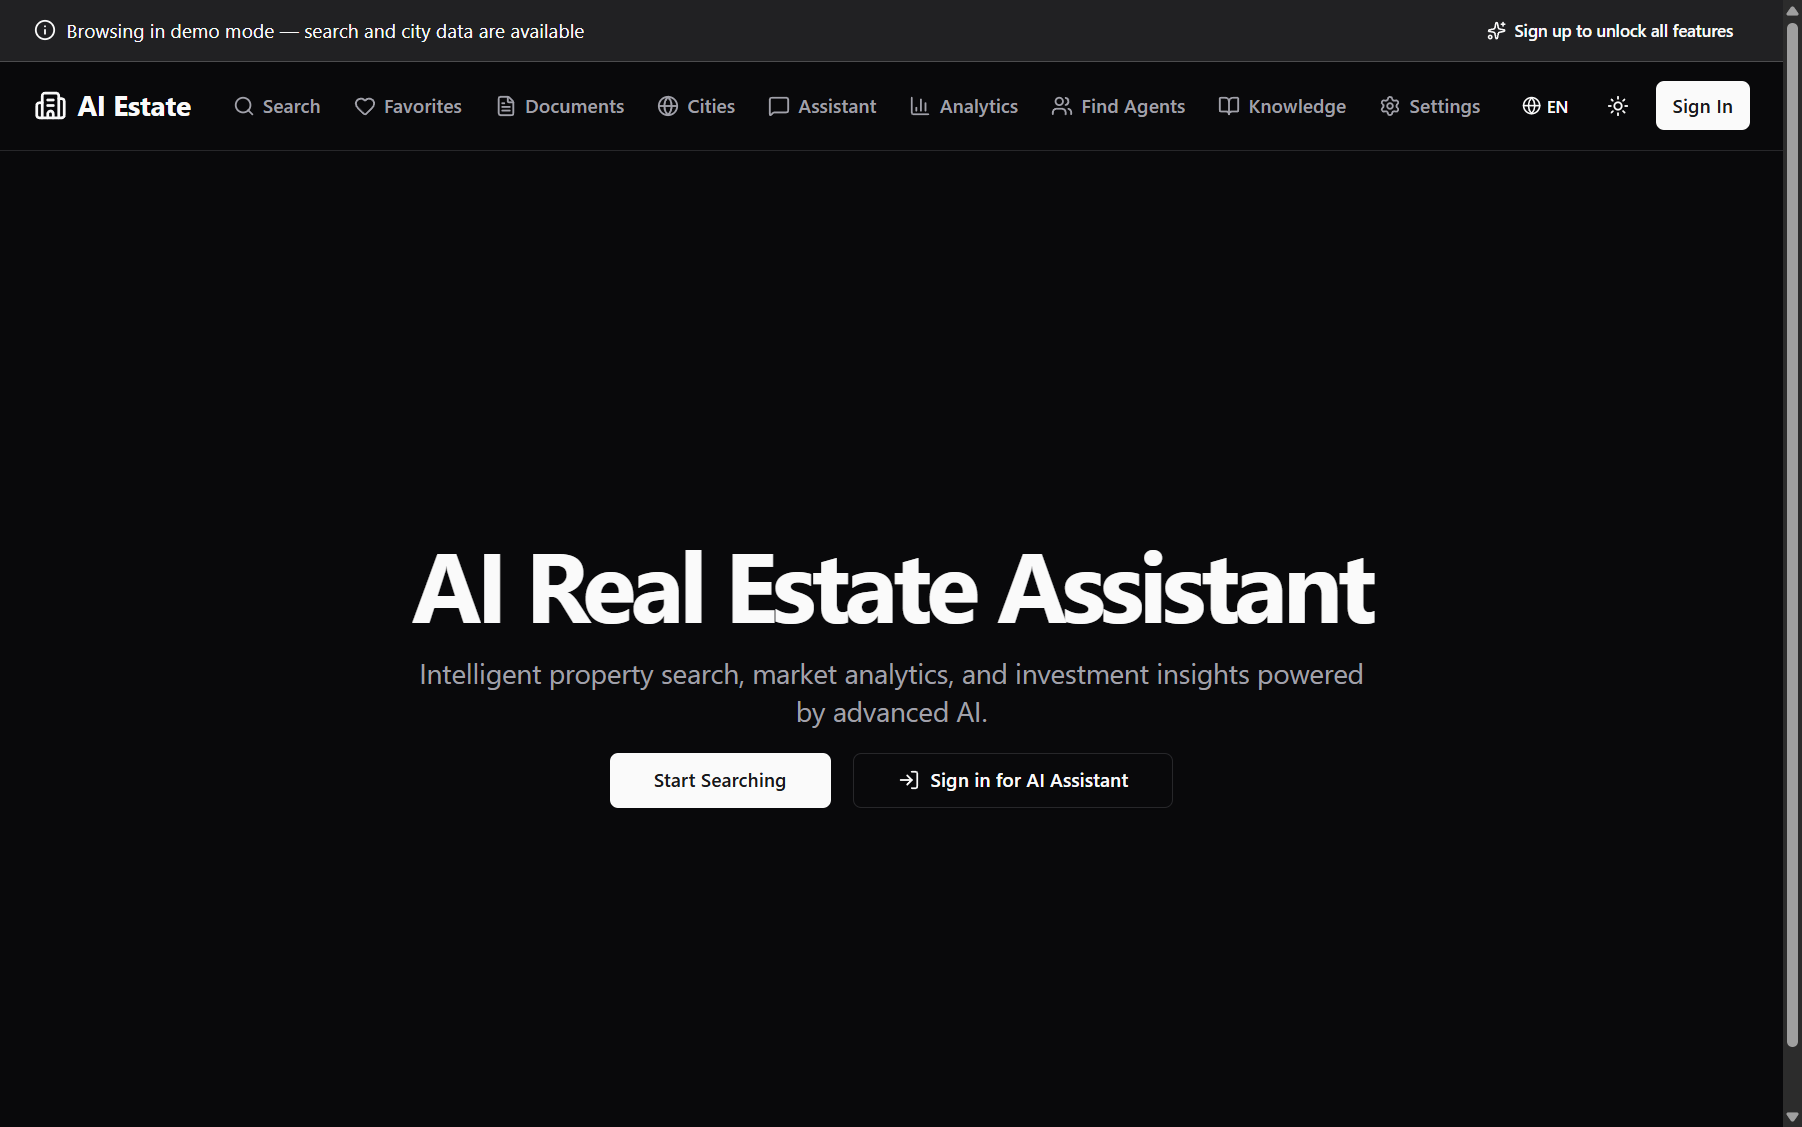
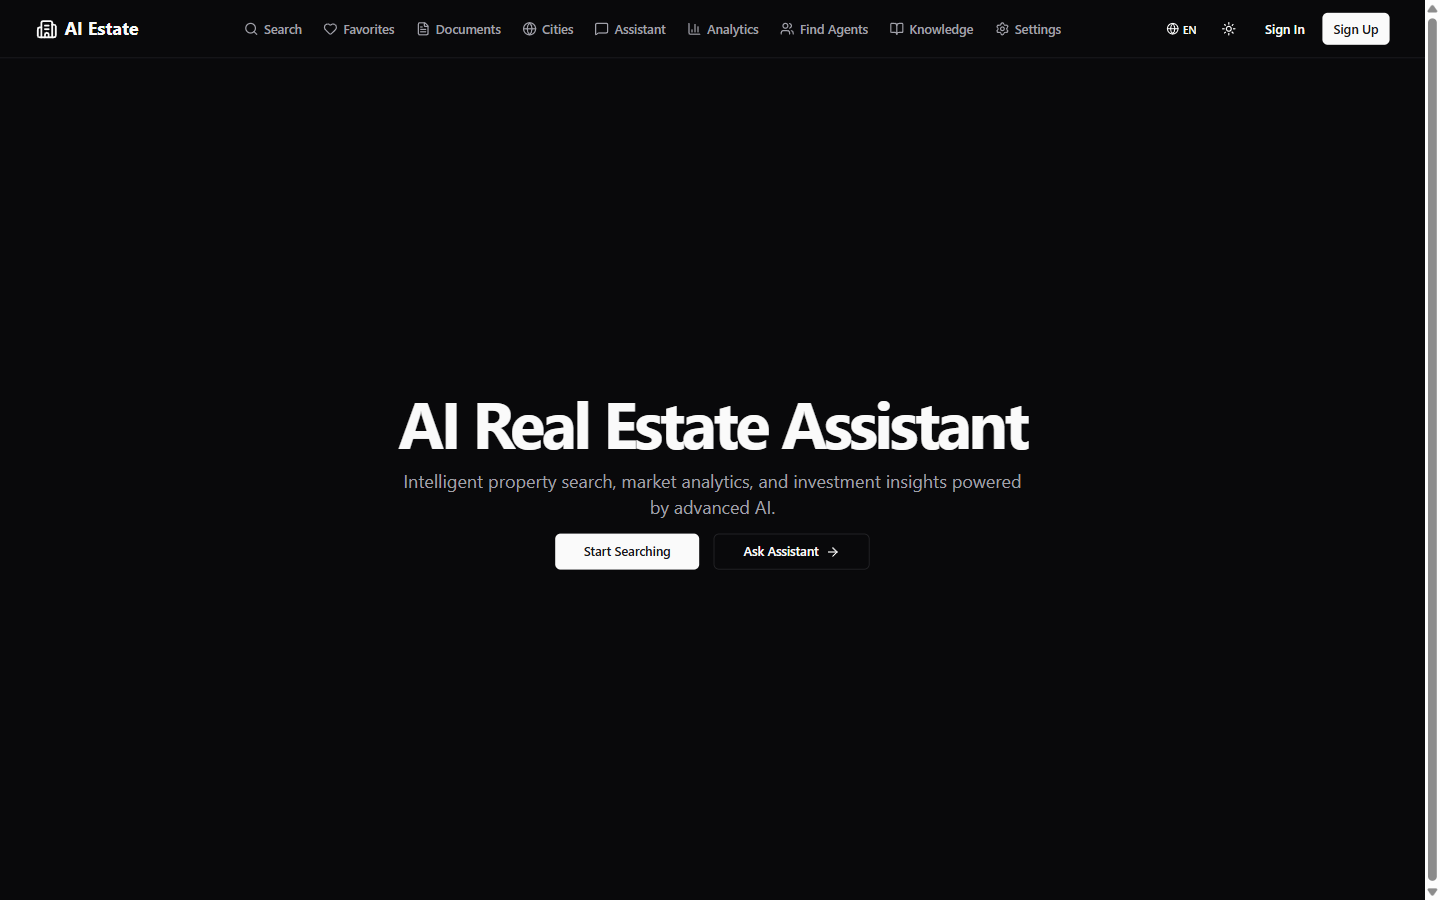
docs: replace screenshot table with animated GIF slideshow
- Replace 6-image table with animated GIF showing all 12 screens
- GIF uses slideleft transitions with text subtitles per frame
- Add missing screenshots: Favorites, Documents, Cities, Agents, Settings
- All screenshots in dark theme with error elements hidden
- Replace Activity Graph with Star History chart
- 640x400, ~2MB, 27.2s duration at 10fps
- Track GIF via Git LFS (exceeds 500KB pre-commit limit)

diff --git a/README.md b/README.md
@@ -58,28 +58,13 @@ Experience the full power of AI-driven real estate search without any setup:
 
 ## 📸 Screenshots
 
-<table>
-  <tr>
-    <td align="center"><b>Home</b></td>
-    <td align="center"><b>Property Search</b></td>
-    <td align="center"><b>Analytics & Tools</b></td>
-  </tr>
-  <tr>
-    <td><img src="assets/screenshots/home-dark.png" alt="Home page with dark theme" width="400"/></td>
-    <td><img src="assets/screenshots/search-dark.png" alt="Property search with filters" width="400"/></td>
-    <td><img src="assets/screenshots/analytics-dark.png" alt="Analytics and financial tools" width="400"/></td>
-  </tr>
-  <tr>
-    <td align="center"><b>Knowledge Base</b></td>
-    <td align="center"><b>Sign In</b></td>
-    <td align="center"><b>Create Account</b></td>
-  </tr>
-  <tr>
-    <td><img src="assets/screenshots/knowledge-dark.png" alt="Knowledge base with document upload" width="400"/></td>
-    <td><img src="assets/screenshots/login-dark.png" alt="Login page with OAuth" width="400"/></td>
-    <td><img src="assets/screenshots/register-dark.png" alt="Registration page with OAuth" width="400"/></td>
-  </tr>
-</table>
+<div align="center">
+
+<img src="assets/screenshots/slideshow.gif" alt="App slideshow — slide through all screens" width="640"/>
+
+*Home · Search · Assistant · Analytics · Agents · Knowledge · Sign In · Sign Up*
+
+</div>
 
 ## ✨ Features
 
@@ -109,9 +94,9 @@ OWASP-hardened with rate limiting, audit logging, SSRF protection, and dual-mode
 [![GitHub forks](https://img.shields.io/github/forks/AleksNeStu/ai-real-estate-assistant?style=social)](https://github.com/AleksNeStu/ai-real-estate-assistant)
 [![GitHub issues](https://img.shields.io/github/issues/AleksNeStu/ai-real-estate-assistant)](https://github.com/AleksNeStu/ai-real-estate-assistant/issues)
 
-### Activity Graph
+### Star Growth
 
-[![Activity Graph](https://github-readme-activity-graph.vercel.app/graph?username=AleksNeStu&repo=ai-real-estate-assistant&theme=react-dark)](https://github.com/AleksNeStu/ai-real-estate-assistant)
+[![Star History Chart](https://api.star-history.com/svg?repos=AleksNeStu/ai-real-estate-assistant&type=Date)](https://star-history.com/#AleksNeStu/ai-real-estate-assistant&Date)
 
 ### Key Metrics
 
